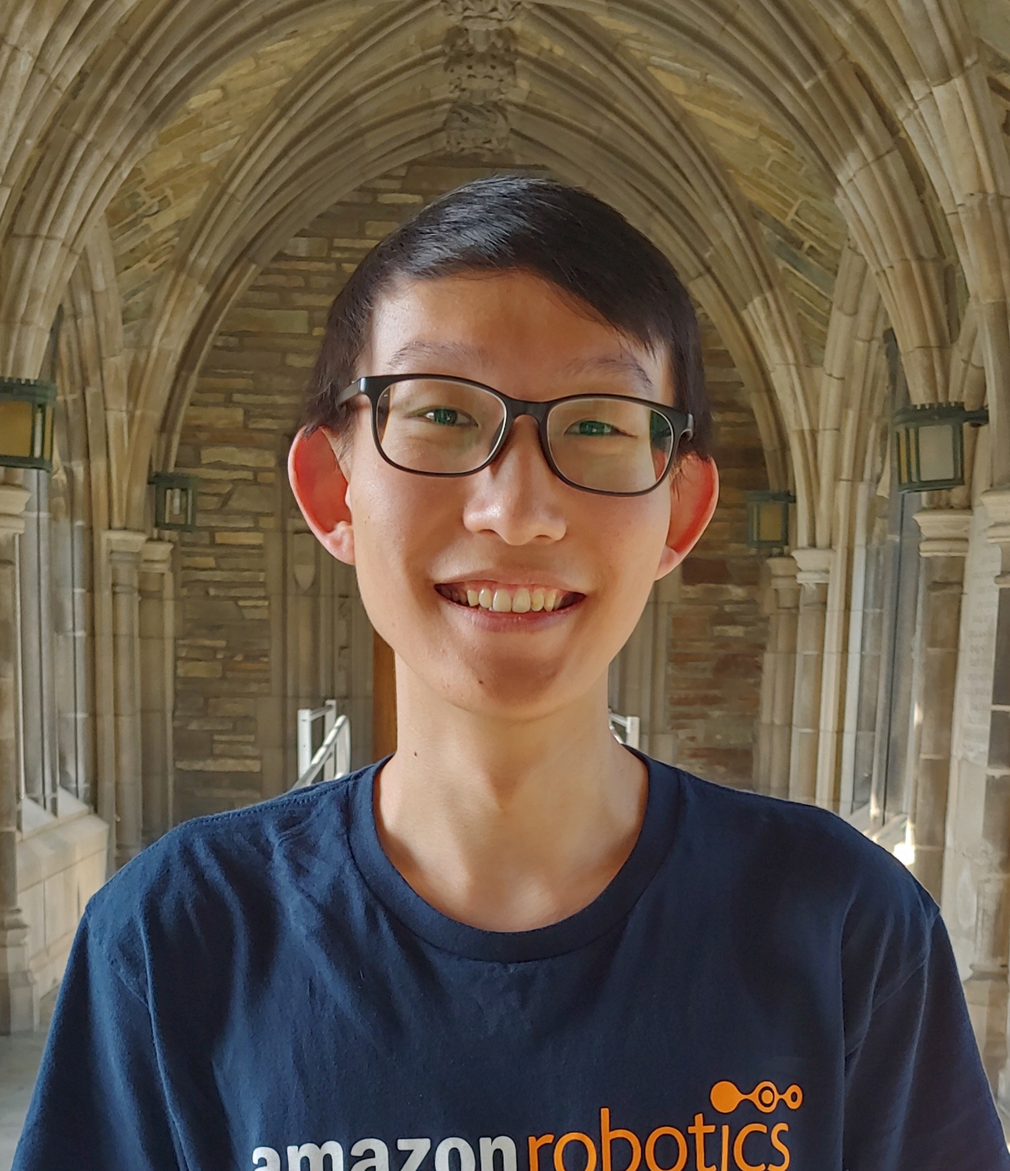
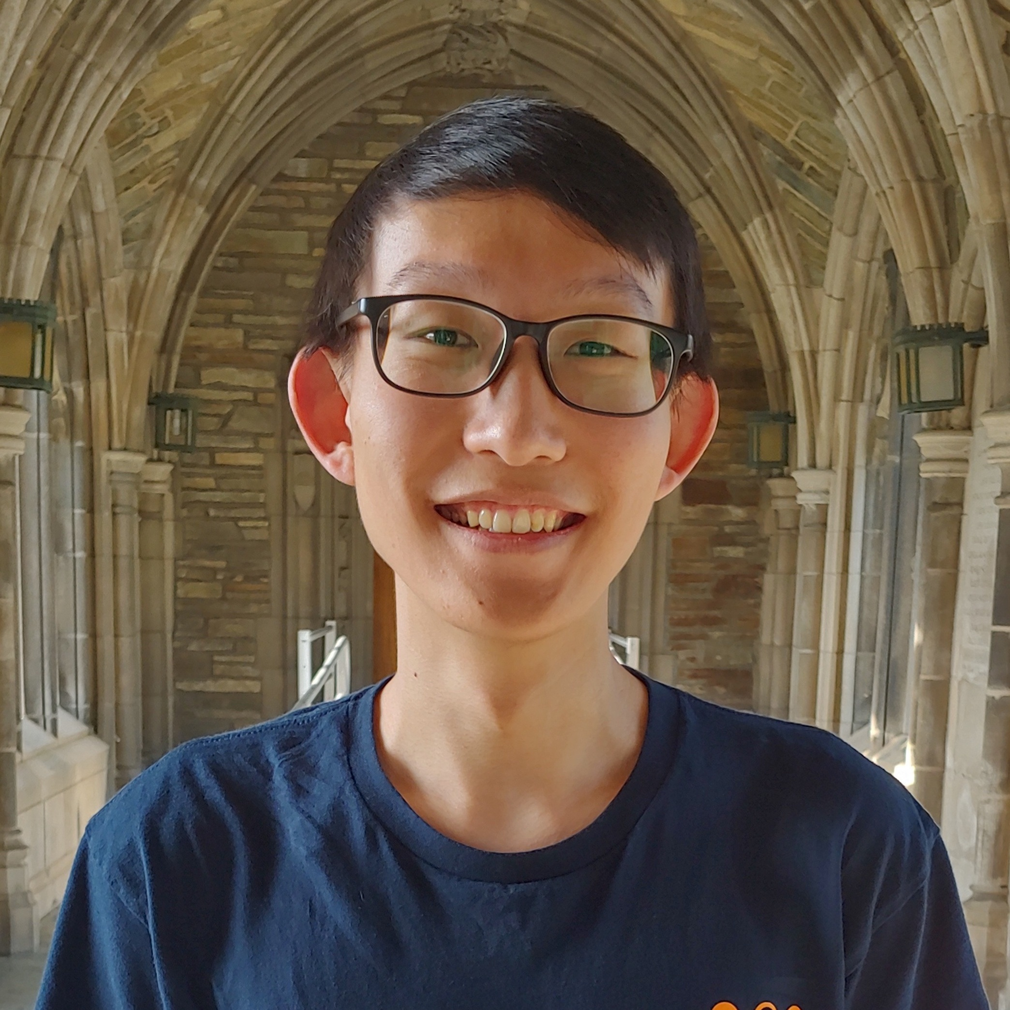
jekyll build from Action 3e1360e87977a89a6fd4f6415ac03c355f5b6ebf

diff --git a/people/index.html b/people/index.html
@@ -564,7 +564,7 @@
       <img
         class="img-fluid clickable-modal-trigger"
         id="modal-trigger-image-12"
-        src="/assets/img/team/anon.png"
+        src="/assets/img/team/sienna.jpg"
         style="float: left"
       />
 
@@ -573,7 +573,7 @@
         class="text-center clickable-modal-trigger"
         id="modal-trigger-text-12"
       >
-        <strong>Sienna Hu</strong>
+        <strong>Xuefeng (Sienna) Hu</strong>
       </div>
       
 
@@ -582,11 +582,11 @@
         <div class="image-modal-content">
           <span class="close">&times;</span>
           Undergraduate Student<br />
-          Email: AT cornell dot edu<br />
+          Email: xh244 AT cornell dot edu<br />
 
           
 
-          <p></p>
+          <p>Xuefeng is a Junior in Computer Science (A fun fact: she transferred from Fashion Design major to CS). She's interested in Software Engineering and Robotics, as there are so many real-life applications of these fields and contribute to a better society through computing. During her spare time, she loves TV dramas/shows, photography, painting and spending time with friends.</p>
         </div>
       </div>
     </div>
@@ -595,7 +595,7 @@
       <img
         class="img-fluid clickable-modal-trigger"
         id="modal-trigger-image-13"
-        src="/assets/img/team/v_nguyen.jpg"
+        src="/assets/img/team/katherine.jpeg"
         style="float: left"
       />
 
@@ -604,47 +604,12 @@
         class="text-center clickable-modal-trigger"
         id="modal-trigger-text-13"
       >
-        <strong>V Nguyen</strong>
+        <strong>Dr. Katherine Dimitropoulou</strong>
       </div>
       
 
       <!-- Hidden modal that opens when image clicked -->
       <div class="image-modal" id="modal-13">
-        <div class="image-modal-content">
-          <span class="close">&times;</span>
-          Occupational Therapist<br />
-          Email: venture.vy AT gmail dot com<br />
-
-          
-          <a href="https://www.linkedin.com/in/v-nguyen-otd-otr-l-80b20818/" target="_blank"
-            >https://www.linkedin.com/in/v-nguyen-otd-otr-l-80b20818/</a
-          >
-          
-
-          <p>V earned her doctorate in occupational therapy at Pacific University in Hillsboro, Oregon. V’s main field of interest is promoting accessibility in health care and technologies - especially for underserved and rural populations.<br/><br/>V is an agent of change in the world of occupational therapy. She creates infinite accessible possibilities for individuals to accomplish their fun, fulfilling, and meaningful occupations no matter their stage in life. She strives to have others see greatness in themselves while engaging in lifelong active learning that enriches both her experiences and those she serves. She invites you to join her journey.</p>
-        </div>
-      </div>
-    </div>
-    
-    <div class="member-info my-3 type-4">
-      <img
-        class="img-fluid clickable-modal-trigger"
-        id="modal-trigger-image-14"
-        src="/assets/img/team/katherine.jpeg"
-        style="float: left"
-      />
-
-      
-      <div
-        class="text-center clickable-modal-trigger"
-        id="modal-trigger-text-14"
-      >
-        <strong>Katherine Dimitropoulou</strong>
-      </div>
-      
-
-      <!-- Hidden modal that opens when image clicked -->
-      <div class="image-modal" id="modal-14">
         <div class="image-modal-content">
           <span class="close">&times;</span>
           Occupational Therapist<br />
@@ -657,6 +622,41 @@
           
 
           <p></p>
+        </div>
+      </div>
+    </div>
+    
+    <div class="member-info my-3 type-4">
+      <img
+        class="img-fluid clickable-modal-trigger"
+        id="modal-trigger-image-14"
+        src="/assets/img/team/v_nguyen.jpg"
+        style="float: left"
+      />
+
+      
+      <div
+        class="text-center clickable-modal-trigger"
+        id="modal-trigger-text-14"
+      >
+        <strong>Dr. V Nguyen</strong>
+      </div>
+      
+
+      <!-- Hidden modal that opens when image clicked -->
+      <div class="image-modal" id="modal-14">
+        <div class="image-modal-content">
+          <span class="close">&times;</span>
+          Occupational Therapist<br />
+          Email: venture.vy AT gmail dot com<br />
+
+          
+          <a href="https://www.linkedin.com/in/v-nguyen-otd-otr-l-80b20818/" target="_blank"
+            >https://www.linkedin.com/in/v-nguyen-otd-otr-l-80b20818/</a
+          >
+          
+
+          <p>V earned her doctorate in occupational therapy at Pacific University in Hillsboro, Oregon. V’s main field of interest is promoting accessibility in health care and technologies - especially for underserved and rural populations.<br/><br/>V is an agent of change in the world of occupational therapy. She creates infinite accessible possibilities for individuals to accomplish their fun, fulfilling, and meaningful occupations no matter their stage in life. She strives to have others see greatness in themselves while engaging in lifelong active learning that enriches both her experiences and those she serves. She invites you to join her journey.</p>
         </div>
       </div>
     </div>

diff --git a/press/index.html b/press/index.html
@@ -186,6 +186,14 @@
   
   <div class="row my-3">
     <div class="col-md-6">
+      <a href="https://www.nature.com/articles/d41586-022-01401-y">Teaching Robots to Touch</a>
+    </div>
+    <div class="col-md-3">Nature</div>
+    <div class="col-md-3">26 May 2022</div>
+  </div>
+  
+  <div class="row my-3">
+    <div class="col-md-6">
       <a href="https://techxplore.com/news/2022-01-framework-optimize-efficiency-comfort-robot-assisted.html">A framework to optimize the efficiency and comfort of robot-assisted feeding systems</a>
     </div>
     <div class="col-md-3">TechXplore</div>

diff --git a/index.html b/index.html
@@ -223,7 +223,7 @@ EmPRISE lab is a part of the <a href="http://www.cs.cornell.edu/" target="_blank
 
 <p>
 <b>April 2022</b><br/>
-<em>Tapo gave a guest lecture on building caregiving robots at University of Massachusetts Lowell</em>
+<em>Tapo gave a guest lecture on building caregiving robots at CMU and at UMass Lowell</em>
 </p>
 
 <p>

diff --git a/photos/demo-day.html b/photos/demo-day.html
@@ -184,7 +184,7 @@
 
       <div class="container">
   <div class="row d-flex flex-wrap align-items-center">
-                                                                                      
+                                                                                        
   </div>
 </div>
 

diff --git a/outreach/index.html b/outreach/index.html
@@ -204,7 +204,7 @@
     <div class="col-12 col-md-4 col-lg-4 pb-3">
       <img src="/assets/img/outreach/vert/3.jpg" alt="" />
     </div>
-                                                 
+                                                   
   </div>
 
   <p>

diff --git a/news/index.html b/news/index.html
@@ -196,7 +196,7 @@
 
 <p>
 <b>April 2022</b><br/>
-<em>Tapo gave a guest lecture on building caregiving robots at University of Massachusetts Lowell</em>
+<em>Tapo gave a guest lecture on building caregiving robots at CMU and at UMass Lowell</em>
 </p>
 
 <p>
